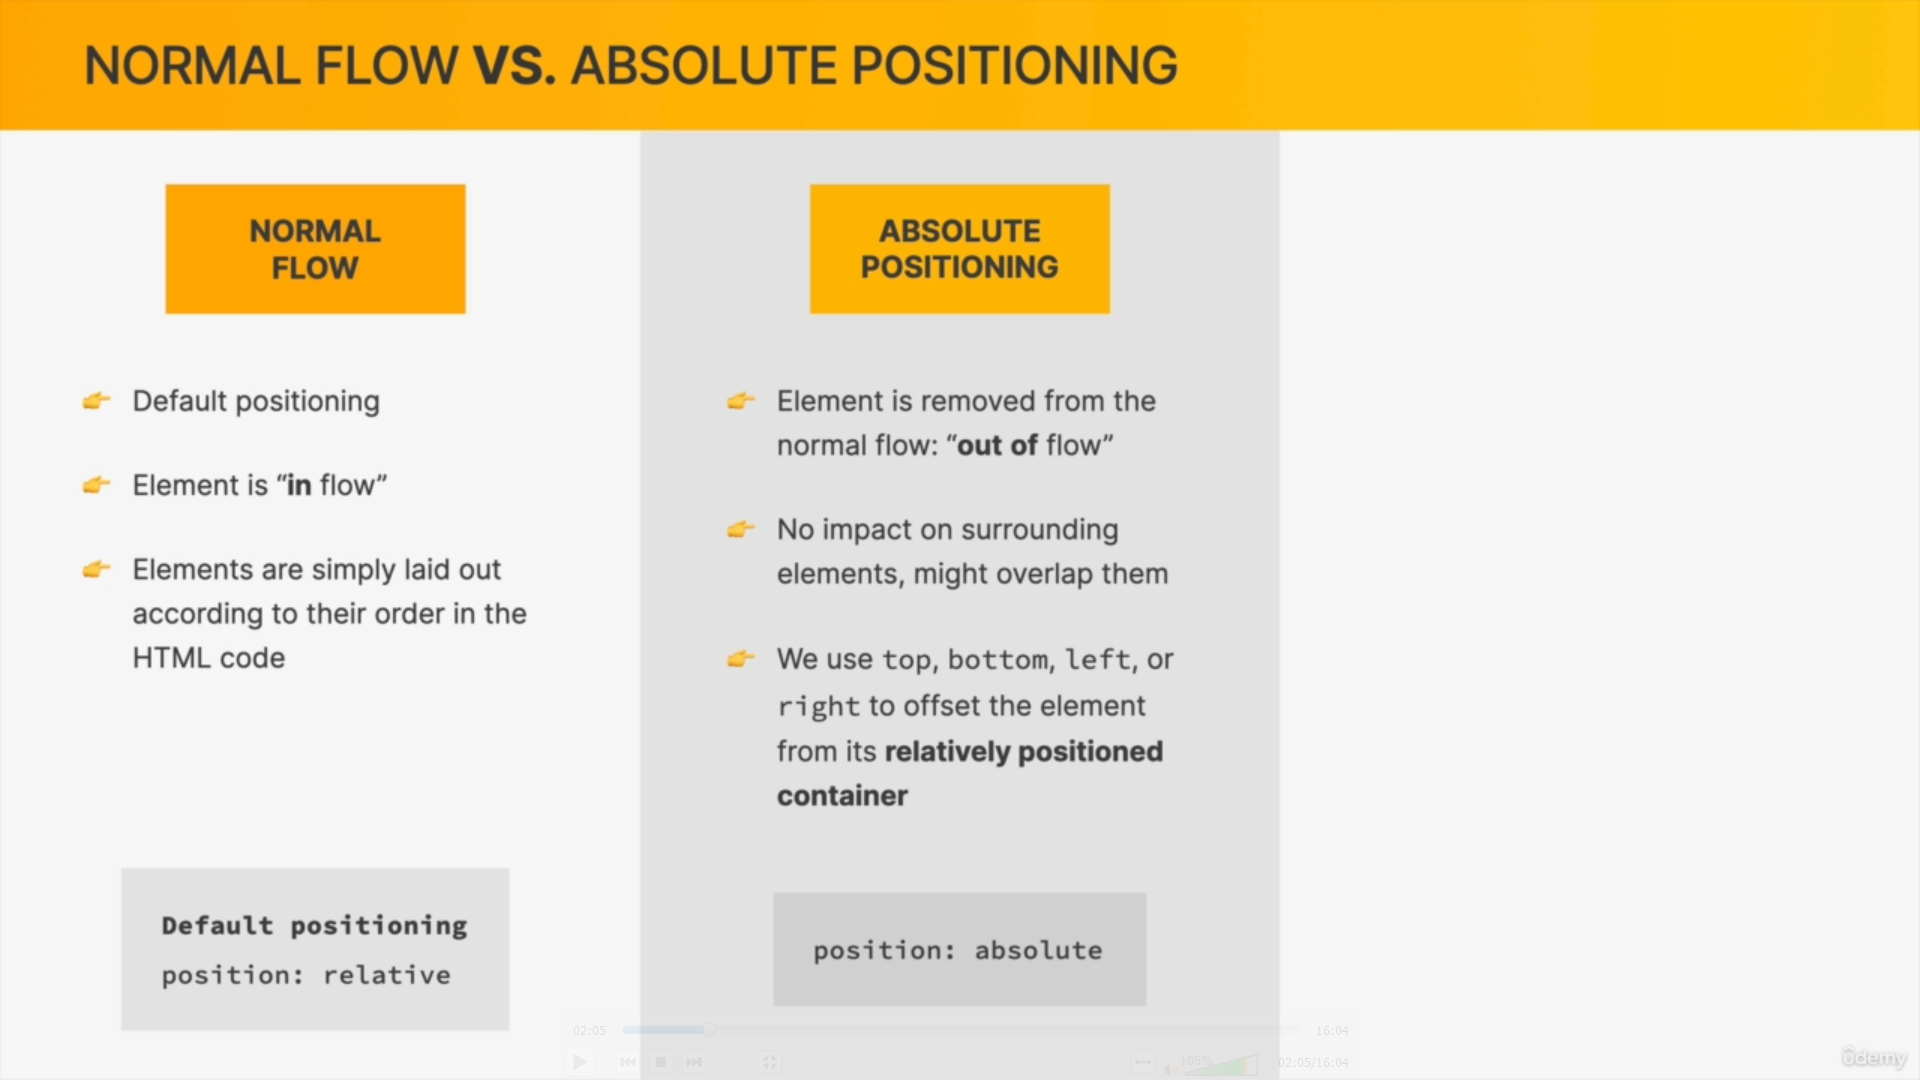
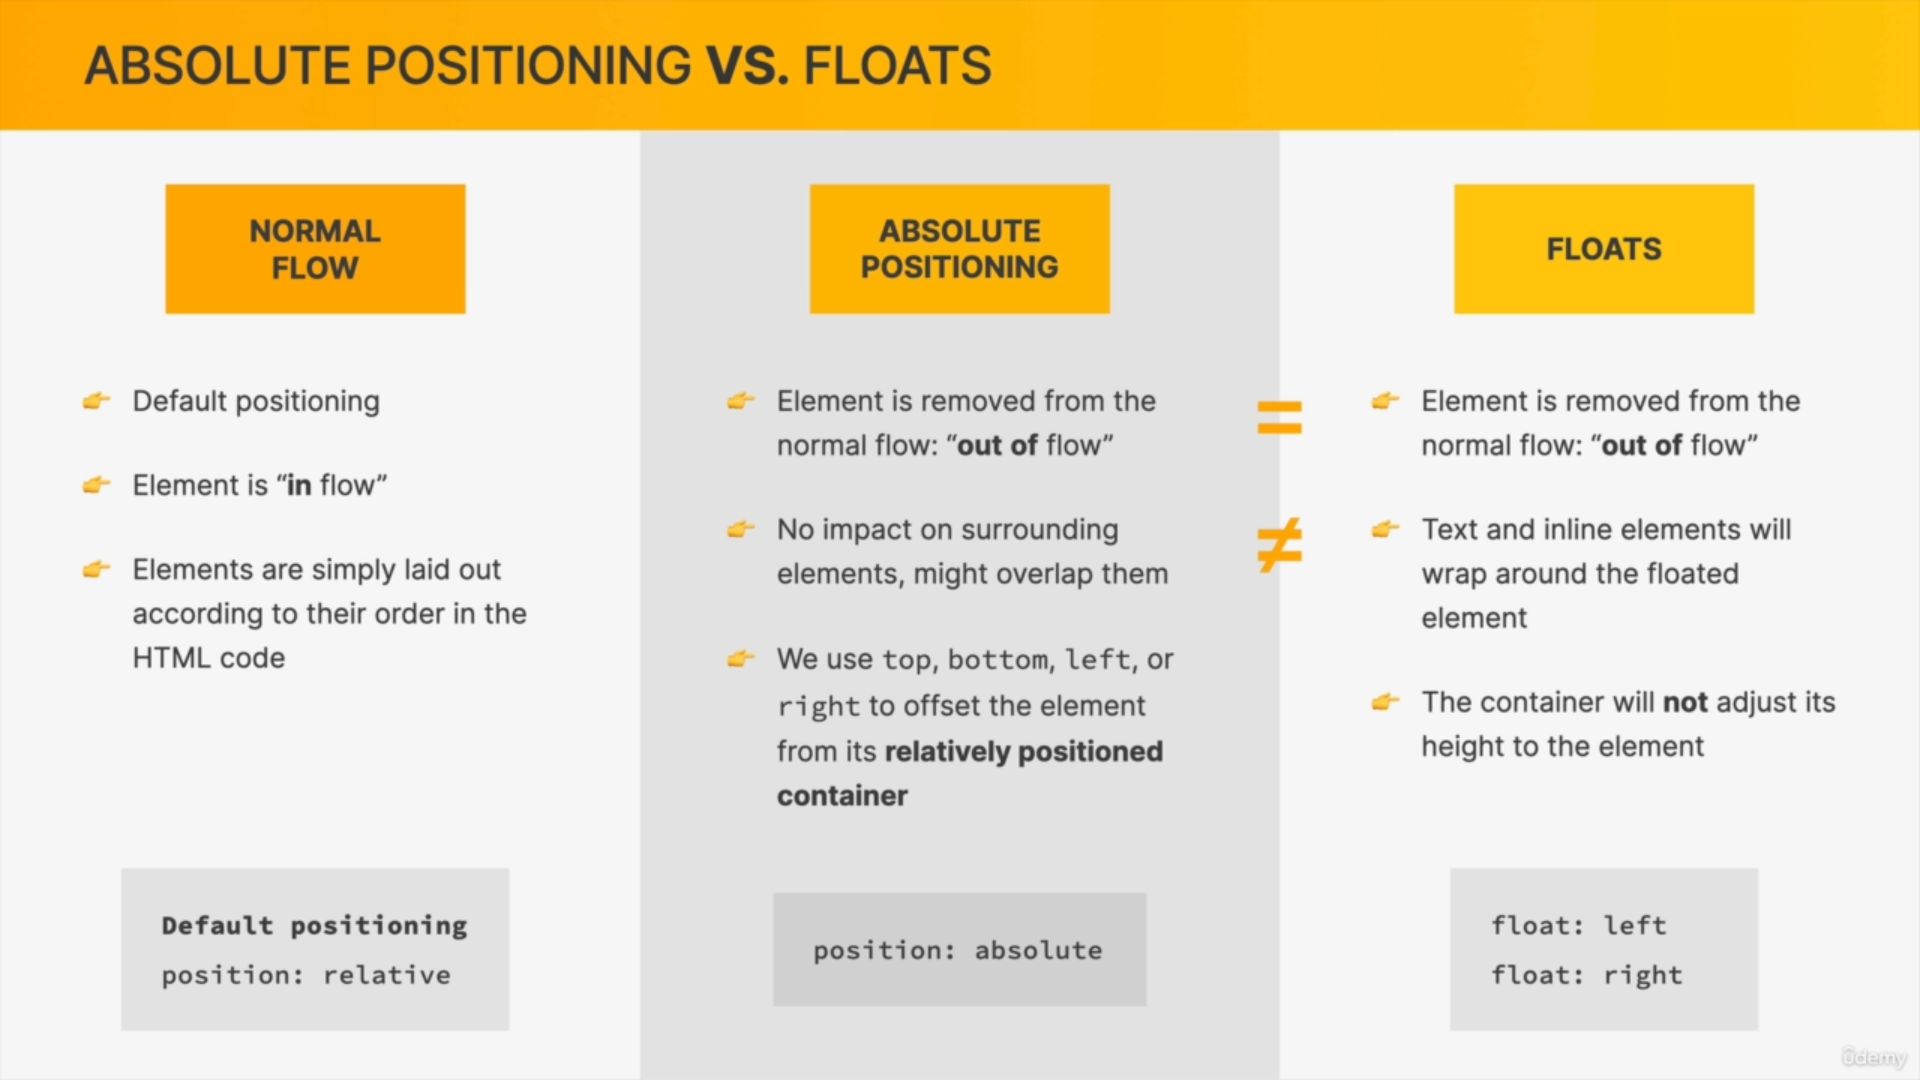
float and clear properties done

diff --git a/Complete-Web-Development/_Documentation_Complete-Web-Development.md b/Complete-Web-Development/_Documentation_Complete-Web-Development.md
@@ -178,6 +178,10 @@ Now that sounded like a whole bunch of stuff that happened in between and when w
 * CSS describes the __visual style and presentation__ of the __content written in HTML__
 * CSS consists of countless __properties__ that developers use to format the content: properties about font, text, spacing, layout, etc.
 
+### CSS Tricks  
+
+* Always use __background-color : property__ for testing any elements
+
 ### CSS Rules
 ![Image](./images/3.1-css-rules.png)
 ### Types of CSS
@@ -669,3 +673,44 @@ p::first-line {
     color :red;
 }
 ```
+### Page Layout
+![Image](./images/3.34-page-layout.png)
+
+![Image](./images/3.35-page-layot-component-layout.png)
+
+![Image](./images/3.36-various-layouts.png)
+
+### Float
+```css
+h1 {
+    float : left; 
+}
+h2 {
+    float : right;
+}
+```
+
+> Collapsing Height
+
+![Image](./images/3.37-colpapsing-height.png)
+
+* in above example height of navbar get collapse beacuse __h1__ using _float : left_ property and __nav__ using _float : right_ property. Now its showing little bit height (in red color) beacuse  of _padding_ property.
+
+> Clear Float
+![Image](./images/3.38-clear-both.png)
+* We have to add one more element after all floated elements. 
+```css
+  .clear {
+    clear : both;
+  }
+``` 
+* __Clearfix Hack__ just add this class in _Parent element_ to aviod _extra div_ 
+
+```css
+  .clearfix::after {
+    content : "";
+    clear : both;
+    display : block;
+
+  }
+  ``` 
